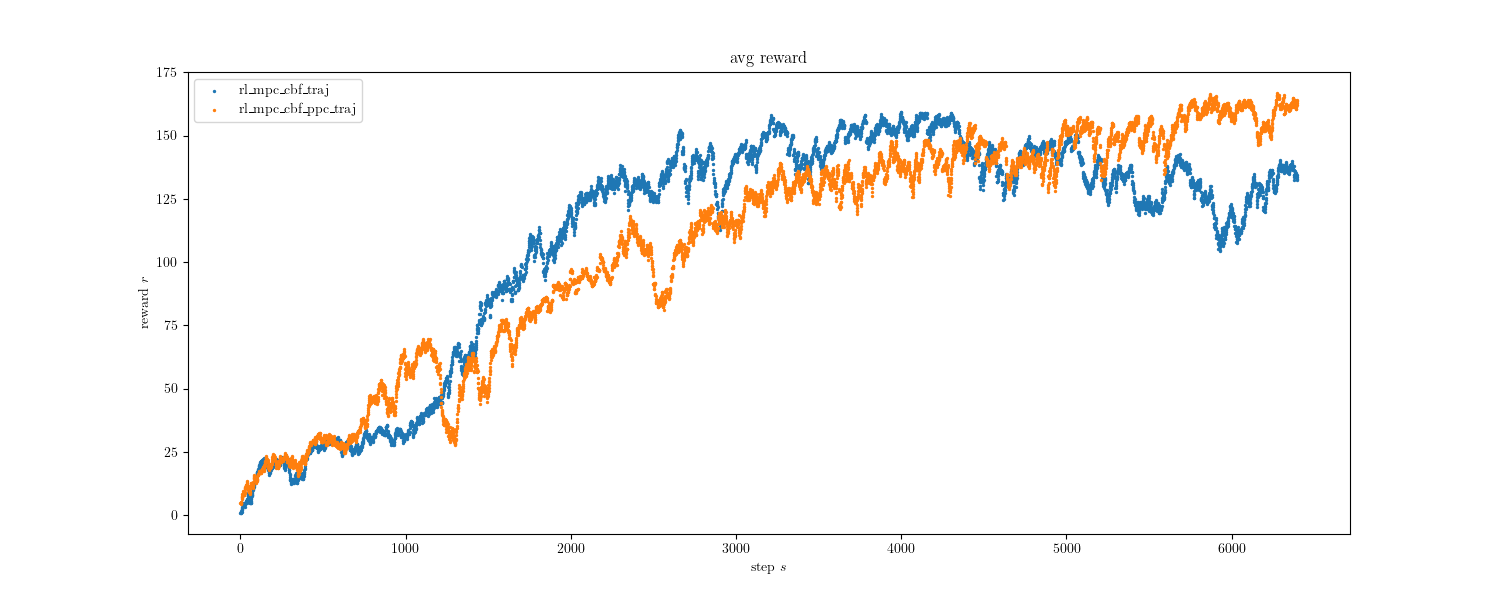
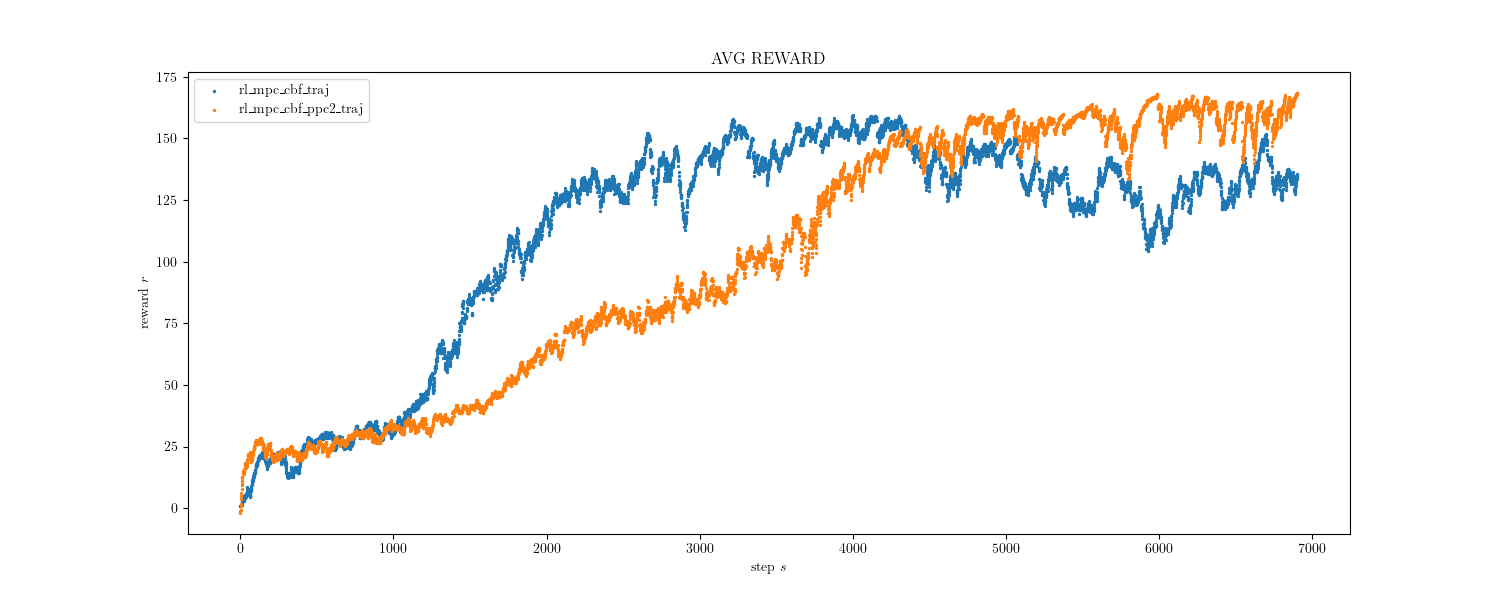
update file

diff --git a/dp_single_version2/plots.py b/dp_single_version2/plots.py
@@ -22,7 +22,7 @@ class Ploter:
         _ax = self._fig.add_subplot(1, 1, 1)
         self._plot_reward_group(_ax, [
             dict(reward_name='avg_reward', method_name='rl_mpc_cbf_traj'),
-            dict(reward_name='avg_reward', method_name='rl_mpc_cbf_ppc_traj'),
+            dict(reward_name='avg_reward', method_name='rl_mpc_cbf_ppc2_traj'),
         ])
 
         _ax.set_xlabel('step $s$'); _ax.set_ylabel('reward $r$')

diff --git a/metadrive/custom2_version2/ocp/mpc.py b/metadrive/custom2_version2/ocp/mpc.py
@@ -52,7 +52,7 @@ class MPC(OCP):
         # ------- 添加决策变量 ----- #
         U = MX.sym('U', self.config.nu * self.config.mu)
         X = MX.sym('X', self.config.nx * (self.config.np+1))
-
+        
         # -------- 添加常量 ------- #
         x0        = MX.sym('x0', self.config.nx)
         z_ref     = MX.sym('z_ref', 2 * (self.config.np + 1))
